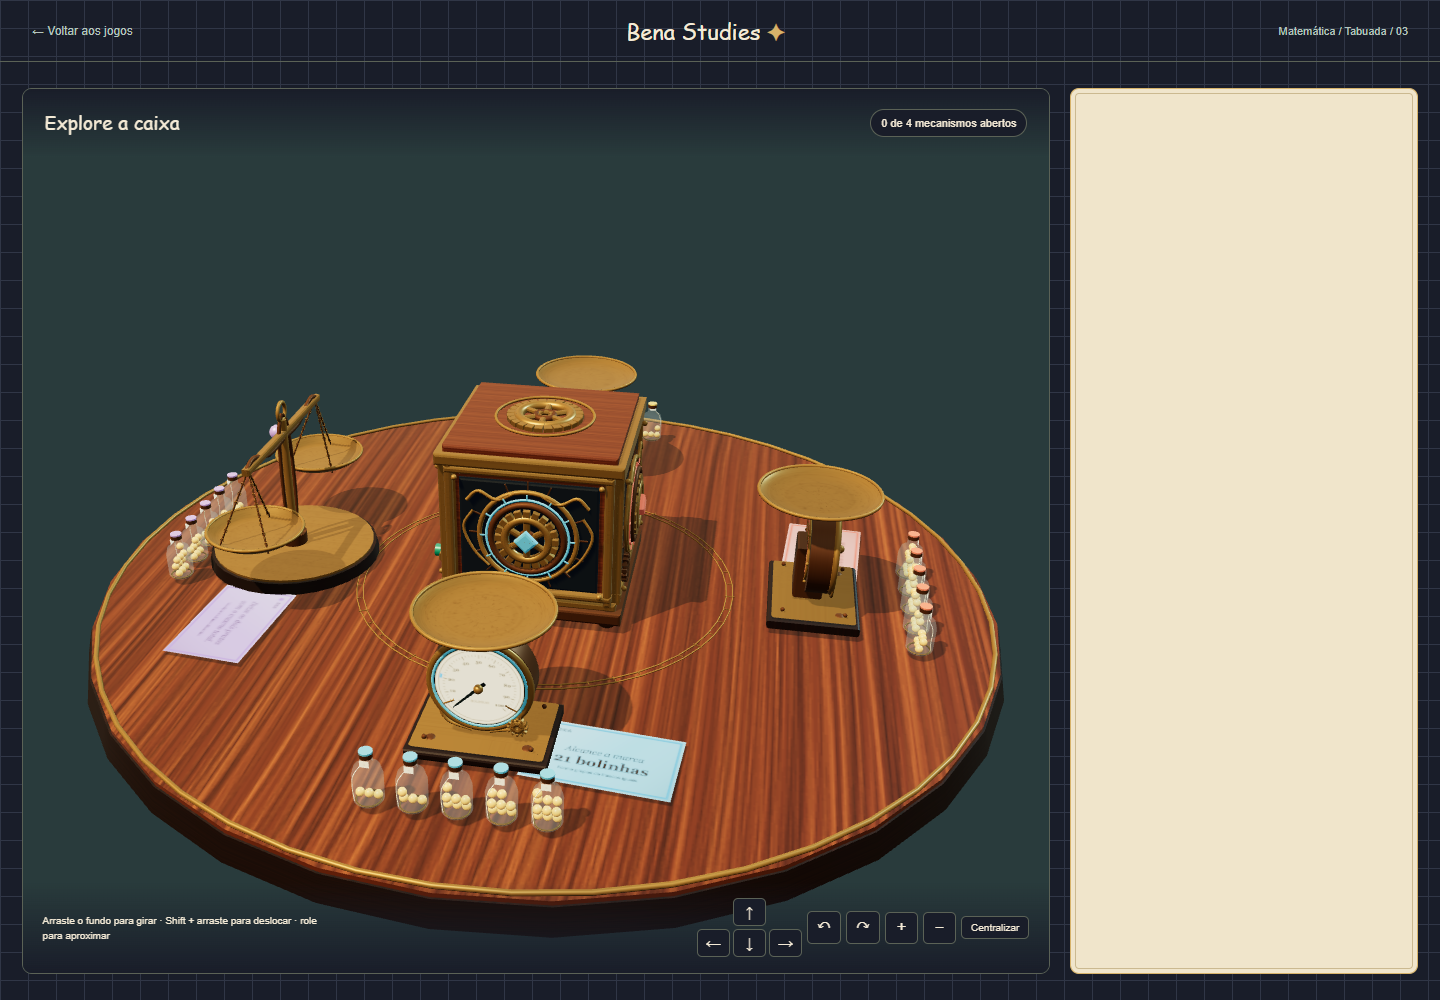
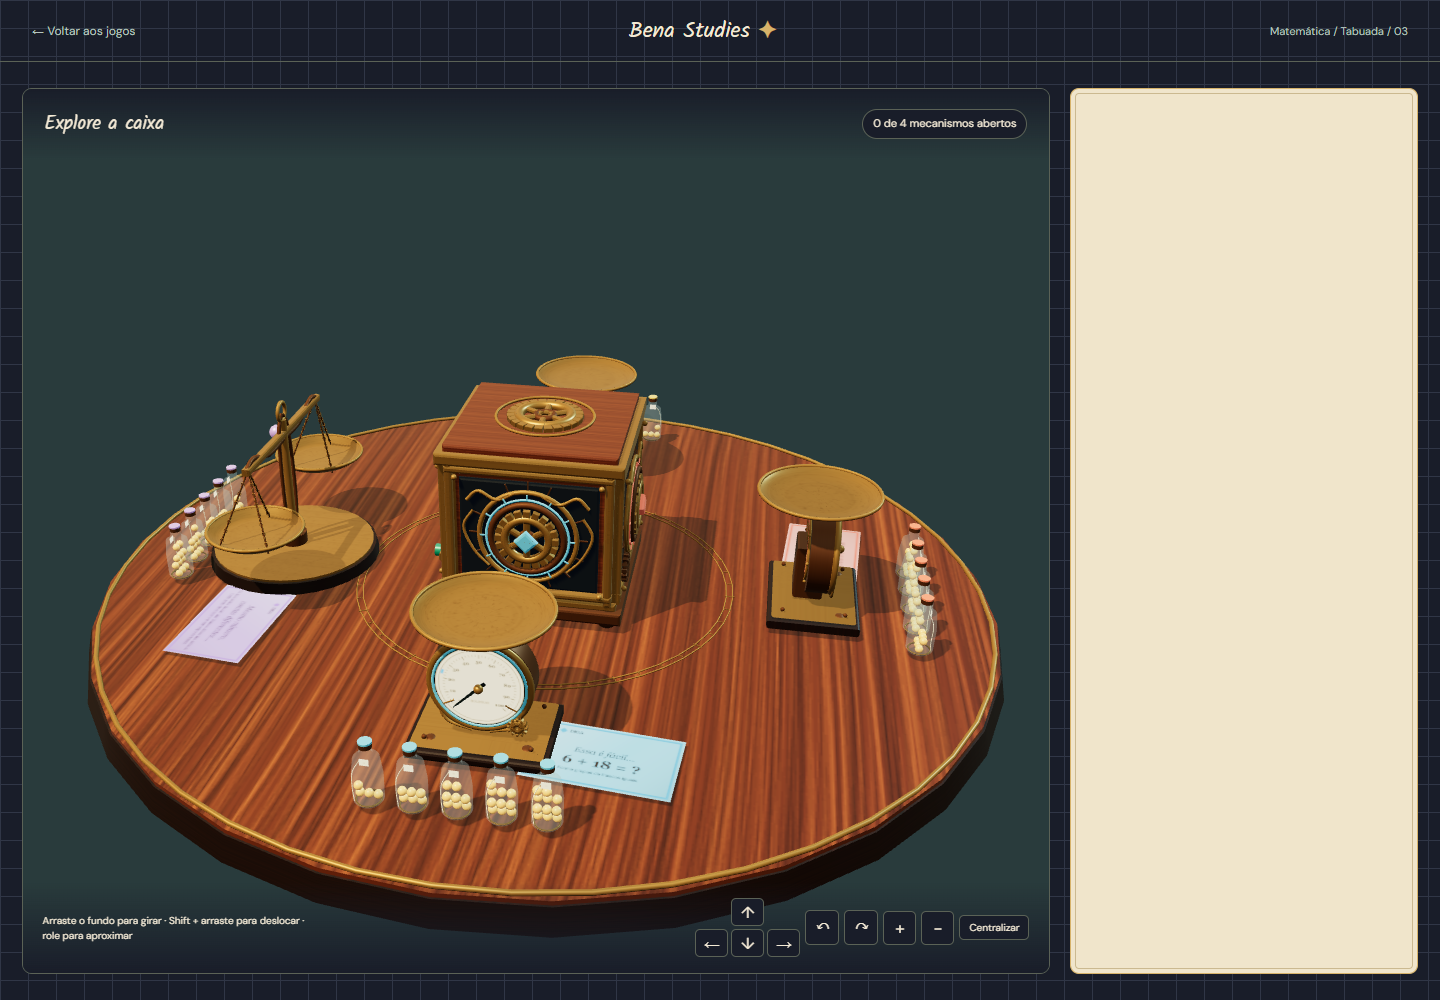
feat(tabuada/003): integrar bilhetes com operacoes e atualizar capturas

diff --git a/conteudo/3-serie/matematica/tabuada/003/jogo.js b/conteudo/3-serie/matematica/tabuada/003/jogo.js
@@ -8,7 +8,7 @@
     return;
   }
   // A versioned module avoids mixing a cached app with its updated data-driven logic.
-  const source = new URL('./app.mjs?v=puzzles-json-3', document.currentScript.src).href;
+  const source = new URL('./app.mjs?v=puzzles-json-4', document.currentScript.src).href;
   window.BENA_JOGO = {
     iniciar(container, voltar) {
       let disposed = false, cleanup;
